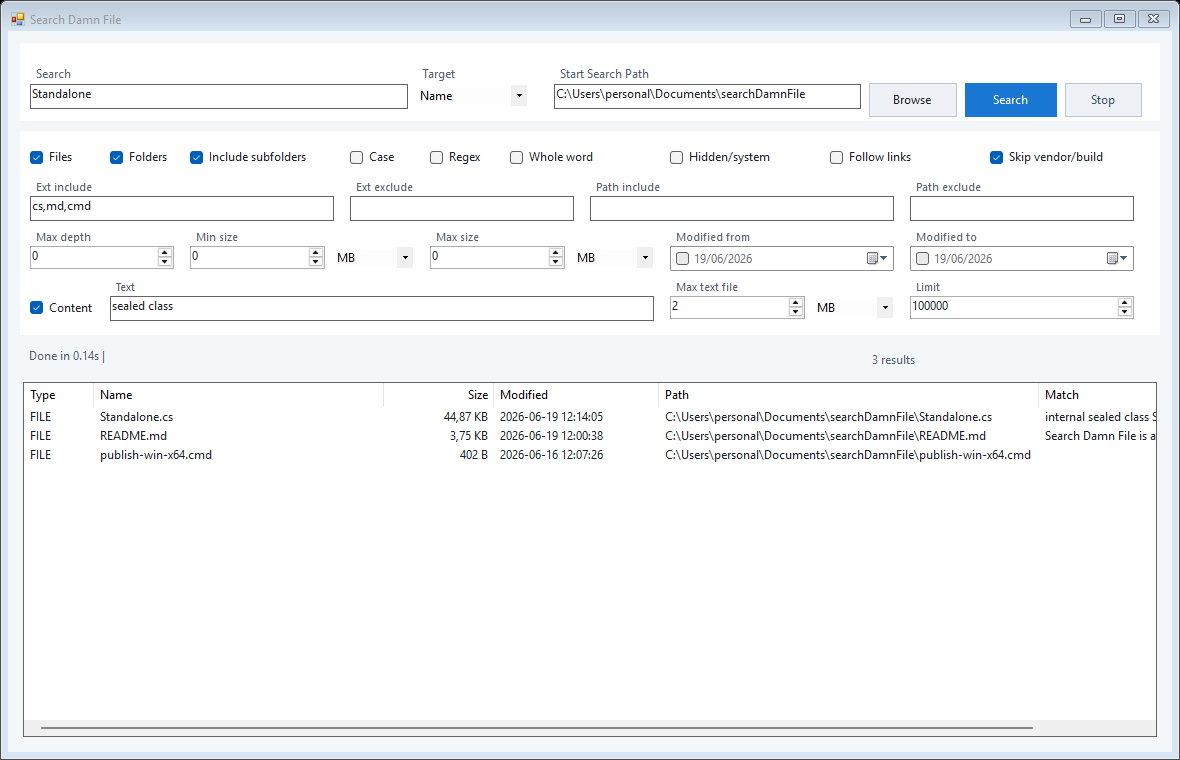
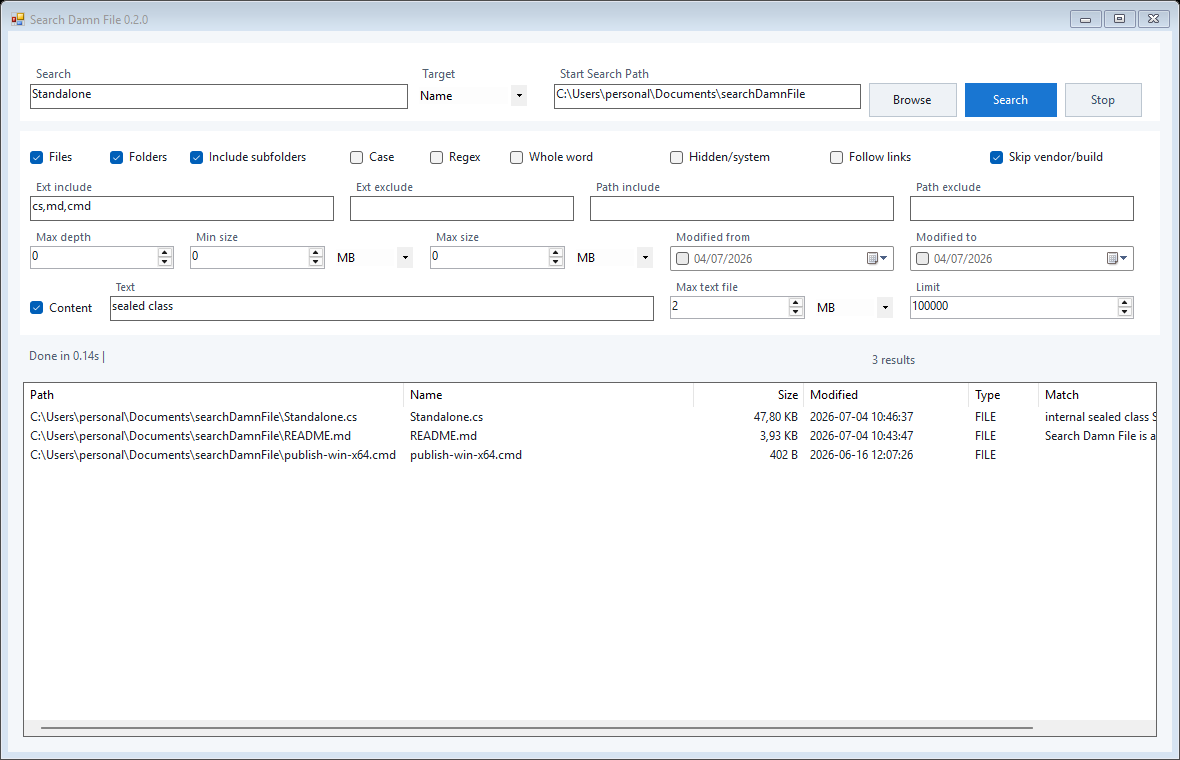
Release 0.2.0: breadth-first search, live results, UI tweaks
Search engine:
- Traverse breadth-first (Queue) instead of depth-first (Stack) so matches
  from top-level user folders surface quickly when scanning a whole drive
  instead of descending into system folders like C:\Windows\WinSxS first.
- Flush matched results on every progress tick instead of only at 256 or on
  completion, so results appear live during long scans.

UI:
- Press Enter in the Start Search Path field to start a search.
- Swap Type and Path result columns so the full path leads each row.

Versioning:
- Embed version 0.2.0 in the executable (AssemblyVersion/FileVersion) and
  show it in the window title.
- Promote CHANGELOG Unreleased section to 0.2.0; refresh screenshots and GIF.

diff --git a/Standalone.cs b/Standalone.cs
@@ -9,8 +9,19 @@ using System.Threading;
 using System.Threading.Tasks;
 using System.Windows.Forms;
 
+[assembly: System.Reflection.AssemblyTitle("Search Damn File")]
+[assembly: System.Reflection.AssemblyProduct("Search Damn File")]
+[assembly: System.Reflection.AssemblyVersion(SearchDamnFileStandalone.AppInfo.Version + ".0")]
+[assembly: System.Reflection.AssemblyFileVersion(SearchDamnFileStandalone.AppInfo.Version + ".0")]
+[assembly: System.Reflection.AssemblyInformationalVersion(SearchDamnFileStandalone.AppInfo.Version)]
+
 namespace SearchDamnFileStandalone
 {
+    internal static class AppInfo
+    {
+        public const string Version = "0.2.0";
+    }
+
     internal static class Program
     {
         [STAThread]
@@ -124,7 +135,7 @@ namespace SearchDamnFileStandalone
             CancellationToken token)
         {
             var sw = Stopwatch.StartNew();
-            var stack = new Stack<DirFrame>();
+            var queue = new Queue<DirFrame>();
             var batch = new List<SearchResult>(256);
             var matcher = BuildMatcher(options);
             var contentMatcher = BuildContentMatcher(options);
@@ -137,15 +148,18 @@ namespace SearchDamnFileStandalone
             if (!Directory.Exists(options.RootPath))
                 throw new DirectoryNotFoundException(options.RootPath);
 
-            stack.Push(new DirFrame(options.RootPath, 0));
+            queue.Enqueue(new DirFrame(options.RootPath, 0));
 
-            while (stack.Count > 0 && matched < options.ResultLimit)
+            while (queue.Count > 0 && matched < options.ResultLimit)
             {
                 token.ThrowIfCancellationRequested();
-                var frame = stack.Pop();
+                var frame = queue.Dequeue();
 
                 if (progressClock.ElapsedMilliseconds >= 125)
                 {
+                    // Surface matches found so far instead of holding them until the
+                    // batch reaches 256 or the whole scan finishes.
+                    Flush(batch, onBatch);
                     onProgress(new SearchProgress
                     {
                         Visited = visited,
@@ -207,7 +221,7 @@ namespace SearchDamnFileStandalone
                     if (isDirectory)
                     {
                         if (ShouldTraverse(entry.Name, frame.Depth, options))
-                            stack.Push(new DirFrame(entry.FullName, frame.Depth + 1));
+                            queue.Enqueue(new DirFrame(entry.FullName, frame.Depth + 1));
                         else
                             skipped++;
                     }
@@ -478,11 +492,11 @@ namespace SearchDamnFileStandalone
         private int _dragIndex = -1;
         private int _sortColumn = -1;
         private bool _sortAscending = true;
-        private static readonly string[] _columnHeaders = { "Type", "Name", "Size", "Modified", "Path", "Match" };
+        private static readonly string[] _columnHeaders = { "Path", "Name", "Size", "Modified", "Type", "Match" };
 
         public MainForm()
         {
-            Text = "Search Damn File";
+            Text = "Search Damn File " + AppInfo.Version;
             Width = 1280;
             Height = 820;
             MinimumSize = new Size(1040, 640);
@@ -643,11 +657,11 @@ namespace SearchDamnFileStandalone
             _list.BackColor = Color.White;
             _list.ForeColor = Color.FromArgb(24, 32, 40);
             _list.BorderStyle = BorderStyle.FixedSingle;
-            _list.Columns.Add("Type", 70);
+            _list.Columns.Add("Path", 380);
             _list.Columns.Add("Name", 290);
             _list.Columns.Add("Size", 110, HorizontalAlignment.Right);
             _list.Columns.Add("Modified", 165);
-            _list.Columns.Add("Path", 380);
+            _list.Columns.Add("Type", 70);
             _list.Columns.Add("Match", 240);
             _list.RetrieveVirtualItem += RetrieveVirtualItem;
             return _list;
@@ -679,6 +693,14 @@ namespace SearchDamnFileStandalone
             _stop.Click += delegate { StopSearch(); };
             _subfolders.CheckedChanged += delegate { _depth.Enabled = _subfolders.Checked; };
             _query.KeyDown += delegate(object sender, KeyEventArgs e)
+            {
+                if (e.KeyCode == Keys.Enter)
+                {
+                    e.SuppressKeyPress = true;
+                    StartSearch();
+                }
+            };
+            _root.KeyDown += delegate(object sender, KeyEventArgs e)
             {
                 if (e.KeyCode == Keys.Enter)
                 {
@@ -851,11 +873,11 @@ namespace SearchDamnFileStandalone
         private void RetrieveVirtualItem(object sender, RetrieveVirtualItemEventArgs e)
         {
             var r = _results[e.ItemIndex];
-            var item = new ListViewItem(r.IsDirectory ? "DIR" : "FILE");
+            var item = new ListViewItem(r.FullPath);
             item.SubItems.Add(r.Name);
             item.SubItems.Add(FormatSize(r.Size));
             item.SubItems.Add(r.ModifiedUtc.ToLocalTime().ToString("yyyy-MM-dd HH:mm:ss"));
-            item.SubItems.Add(r.FullPath);
+            item.SubItems.Add(r.IsDirectory ? "DIR" : "FILE");
             item.SubItems.Add(r.ContentMatch ?? "");
             e.Item = item;
         }
@@ -972,10 +994,10 @@ namespace SearchDamnFileStandalone
                 int cmp;
                 switch (column)
                 {
-                    case 0: cmp = a.IsDirectory.CompareTo(b.IsDirectory); break;
                     case 1: cmp = string.Compare(a.Name, b.Name, StringComparison.OrdinalIgnoreCase); break;
                     case 2: cmp = Nullable.Compare(a.Size, b.Size); break;
                     case 3: cmp = a.ModifiedUtc.CompareTo(b.ModifiedUtc); break;
+                    case 4: cmp = a.IsDirectory.CompareTo(b.IsDirectory); break;
                     default: cmp = string.Compare(a.FullPath, b.FullPath, StringComparison.OrdinalIgnoreCase); break;
                 }
                 return _sortAscending ? cmp : -cmp;

diff --git a/CHANGELOG.md b/CHANGELOG.md
@@ -5,10 +5,12 @@ All notable changes to this project will be documented in this file.
 The format is based on Keep a Changelog, and this project follows semantic
 versioning when tagged releases are published.
 
-## Unreleased
+## [0.2.0] - 2026-07-04
 
 ### Added
 
+- Press `Enter` in the **Start Search Path** field to start a search, the same as
+  the Search field. Previously only the Search field responded to `Enter`.
 - Export results to CSV: right-click the result list and choose **Export to CSV…** to
   save all current results with Type, Name, Size, Modified, Path, and Match columns.
   The file is UTF-8 encoded and opens correctly in Excel and other spreadsheet apps.
@@ -18,6 +20,10 @@ versioning when tagged releases are published.
 
 ### Changed
 
+- Directory traversal is now breadth-first instead of depth-first. When searching a
+  whole drive such as `C:\`, matches from top-level user folders (Desktop, Documents,
+  Pictures) surface quickly instead of the scan descending deep into system folders
+  like `C:\Windows\WinSxS` first.
 - The search field (formerly "Query") is now the first control on the top bar and
   receives focus automatically on launch, so you can start typing immediately.
 - Renamed labels: "Query" → "Search", "Root" → "Start Search Path".
@@ -26,6 +32,15 @@ versioning when tagged releases are published.
 - Content checkbox and text field are now flush on the same row with consistent
   vertical alignment.
 - Search button now grays out visually while a search is running.
+- Result list column order is now Path, Name, Size, Modified, Type, Match
+  (Type and Path swapped) so the full path leads each row.
+
+### Fixed
+
+- Matched results are now flushed to the list on every progress update (about eight
+  times per second) instead of only when 256 results accumulate or the search
+  finishes. During long scans results now appear live instead of the list staying
+  empty until a batch fills.
 
 ## [0.1.0] - 2026-06-17
 

diff --git a/docs/RELEASING.md b/docs/RELEASING.md
@@ -21,9 +21,12 @@ tools\capture-assets.cmd
 5. Create and push a tag:
 
 ```cmd
-git tag v0.1.0
-git push origin v0.1.0
+git tag v0.2.0
+git push origin v0.2.0
 ```
+
+The tag version must match `AppInfo.Version` in `Standalone.cs`, which is also
+embedded in the executable and shown in the window title.
 
 GitHub Actions will build the executable, zip it, and create or update the
 GitHub release for that tag.

diff --git a/README.md b/README.md
@@ -71,7 +71,7 @@ publish\SearchDamnFile.exe
 
 ## Usage Notes
 
-- Press `Enter` in the Search field to start a search.
+- Press `Enter` in the Search field or the Start Search Path field to start a search.
 - Wildcard masks are supported: `*` matches any sequence of characters, `?` matches
   a single character (e.g. `*.cs`, `report_202?_*`). Wildcards anchor to the full
   name or path; use `*keyword*` to match anywhere.